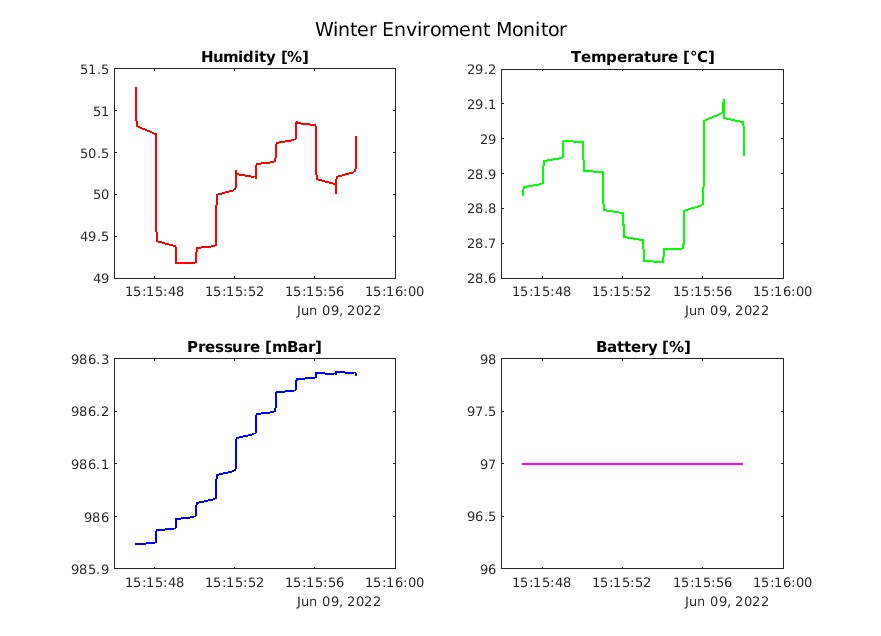
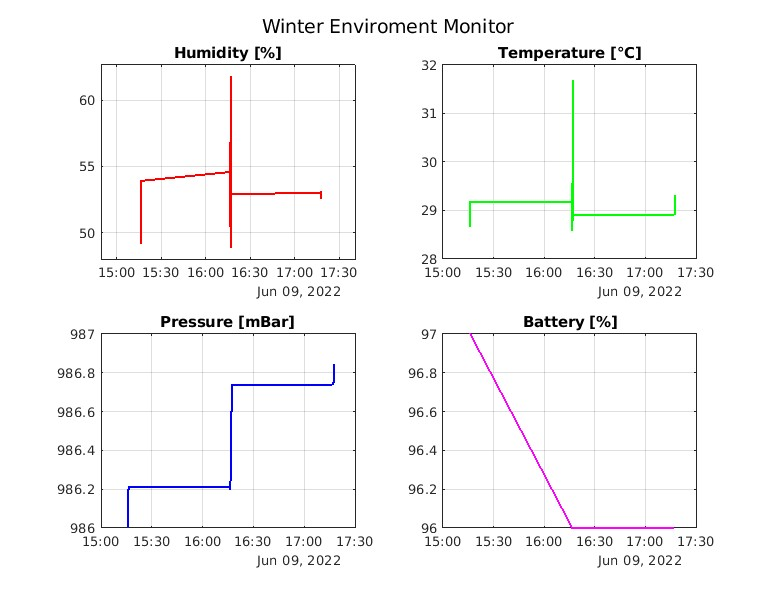
Update

diff --git a/matlab_plots.m b/matlab_plots.m
@@ -4,12 +4,14 @@ clear; clc;
 
 DATA = readtable("data_readings.txt", "VariableNamingRule", "preserve");
 
+DATA = DATA(1:end, :);
+
 dataora = datetime(DATA.Var1, DATA.Var2, DATA.Var3, DATA.Var4, DATA.Var4, DATA.Var5, DATA.Var6);
 
 humidty = smoothdata(DATA.Var7/100);
 temperature = smoothdata(DATA.Var8/100);
 pressure = smoothdata(DATA.Var9/1000);
-battery = smoothdata(DATA.Var10);
+battery = DATA.Var10;
 
 f = figure(Visible="on");
 
@@ -17,20 +19,25 @@ f = figure(Visible="on");
 subplot(2, 2, 1);
 plot(dataora, humidty, 'LineWidth',1.5, 'Color', 'red');
 title('Humidity [%]');
+axis('padded')
+grid("on")
 
 % temperature [°C]
 subplot(2, 2, 2);
 plot(dataora, temperature, 'LineWidth',1.5, 'Color', 'green');
 title('Temperature [°C]');
+grid("on")
 
 % pressure [mBar]
 subplot(2, 2, 3);
 plot(dataora, pressure, 'LineWidth',1.5, 'Color', 'blue');
 title('Pressure [mBar]');
+grid("on")
 
 % battery [%]
 subplot(2, 2, 4);
 plot(dataora, battery, 'LineWidth',1.5, 'Color', 'magenta');
 title('Battery [%]');
+grid("on")
 
 sgtitle('Winter Enviroment Monitor');
